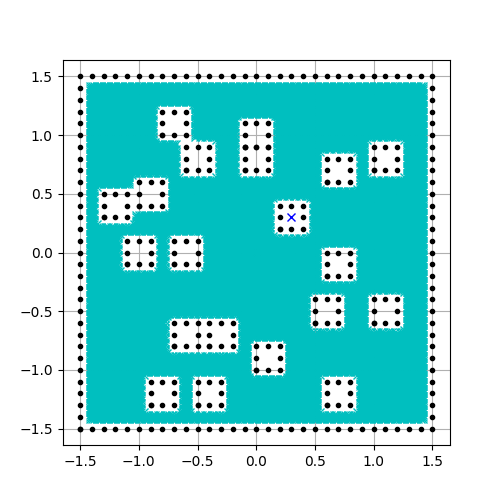
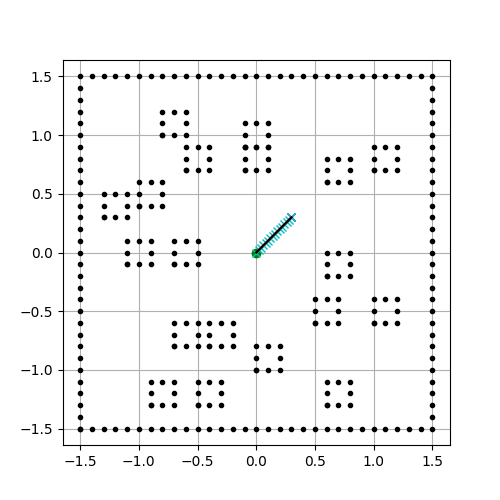
Added the autonomous driving part

diff --git a/Week08-09/auto_fruit_search_new_strat.py b/Week08-09/auto_fruit_search_new_strat.py
@@ -142,7 +142,8 @@ class Operate:
         self.initial_robot_pose_theta = 0
         self.closestAruco = []
         self.closestArucoIndex = 1
-        self.fruit_to_find = []
+        self.fruit_to_find_xy = []
+        self.simplified_path = []
         
         self.folder = 'pibot_dataset/'
         if not os.path.exists(self.folder):
@@ -717,31 +718,68 @@ if __name__ == "__main__":
 
     # read in the true map
     fruits_list, fruits_true_pos, aruco_true_pos = read_true_map(args.map)
-
-    print(fruits_true_pos)
     # print(aruco_true_pos)
-
-    operate = Operate(args, aruco_true_pos)
-
-    ppi = PenguinPi(args.ip,args.port)
 
     search_list = read_search_list(args.shopping_list)
     fruit_goal_list = print_target_fruits_pos(search_list, fruits_list, fruits_true_pos)
     
     obstacle_list = np.vstack((fruits_true_pos, aruco_true_pos))
+    operate = Operate(args, aruco_true_pos)
 
     operate.ekf_on = True
     sleep(1)
 
-    operate.fruit_to_find = search_list.pop(0)
-    fruit_index = fruits_list.index(operate.fruit_to_find.lower())
-    obstacle_index = obstacle_list.index(operate.fruit_to_find.lower())
-    print(fruit_index)
-    obstacle_list.pop(operate.fruit_to_find)        # Removes the finding fruit from obstacle list
+    ## Testing for Level 1
+    # operate.fruit_to_find = search_list.pop(0)
+    # fruit_index = fruits_list.index(operate.fruit_to_find.lower())
+    # obstacle_index = obstacle_list.index(operate.fruit_to_find.lower())
+    # print(fruit_index)
+    # obstacle_list.pop(operate.fruit_to_find)        # Removes the finding fruit from obstacle list
     
-    operate.all_waypoints = astar.a_start(0, 0, fruits_true_pos[fruit_index][0], fruits_true_pos[fruit_index][1], obstacle_list)
-    obstacle_list.insert(fruit_index, operate.fruit_to_find)        # Add the finding fruit back to obstacle list
-    print(operate.all_waypoints)
+    # operate.all_waypoints = astar.a_start(0, 0, fruits_true_pos[fruit_index][0], fruits_true_pos[fruit_index][1], obstacle_list)
+    # obstacle_list.insert(fruit_index, operate.fruit_to_find)        # Add the finding fruit back to obstacle list
+    # print(operate.all_waypoints)
+
+     ### for Autonomous Waypoints (COMMENT THIS OUT : Do not use thiss until its time to test)
+    for K in range(5) : 
+        fruit_to_find = search_list.pop(0)
+        fruit_index = fruits_list.index(fruit_to_find.lower())
+        print(f"Now Heading to Fruit number {fruit_index} : " + fruit_to_find)
+        operate.fruit_to_find_xy = fruits_true_pos[fruit_index]
+        fruits_true_pos = np.delete(fruits_true_pos, fruit_index, axis=0)        # Removes the finding fruit from obstacle list
+        obstacle_list = np.vstack((fruits_true_pos, aruco_true_pos))
+
+        if K== 0 : 
+            robot_x = 0
+            robot_y = 0
+
+    
+        all_waypoints_reverse, simplified_path_reverse = astar.a_start(robot_x, robot_y, operate.fruit_to_find_xy[0], operate.fruit_to_find_xy[1], obstacle_list)
+        
+        # Waypoints are reversed, trying to set it right
+        operate.all_waypoints = []
+        operate.simplified_path = []
+        j = len(all_waypoints_reverse)-1
+        for i in range(len(all_waypoints_reverse)) : 
+            operate.all_waypoints.append(all_waypoints_reverse[j])
+            j-=1
+        j= len(simplified_path_reverse)-1
+        for i in range(len(simplified_path_reverse)) : 
+            operate.simplified_path.append(simplified_path_reverse[j])
+            j-=1
+        # Waypoints and simplified path are not set the right way
+        
+        # Waypoints contain the goal
+        operate.all_waypoints = np.delete(operate.all_waypoints, -1, axis=0)  
+        final_waypoint = operate.all_waypoints[-3]
+        fruits_true_pos = np.insert(fruits_true_pos, fruit_index, operate.fruit_to_find_xy, axis = 0)        # Add the finding fruit back to obstacle list
+        obstacle_list = np.vstack((fruits_true_pos, aruco_true_pos))
+        print(operate.all_waypoints)
+        robot_x = final_waypoint[0]
+        robot_y = final_waypoint[1]
+    ###
+
+    ppi = PenguinPi(args.ip,args.port)
 
     while start:
         operate.update_keyboard()
@@ -759,5 +797,14 @@ if __name__ == "__main__":
         operate.draw(canvas)
         pygame.display.update()
         
-    ### for Autonomous Waypoints
-
+    ### for Autonomous Waypoints (COMMENT THIS OUT : Do not use thiss until its time to test)
+    for K in range(5) : 
+        operate.fruit_to_find = search_list.pop(0)
+        fruit_index = fruits_list.index(operate.fruit_to_find.lower())
+        obstacle_index = obstacle_list.index(operate.fruit_to_find.lower())
+        print(fruit_index)
+        obstacle_list.pop(operate.fruit_to_find)        # Removes the finding fruit from obstacle list
+    
+        operate.all_waypoints = astar.a_start(0, 0, fruits_true_pos[fruit_index][0], fruits_true_pos[fruit_index][1], obstacle_list)
+        obstacle_list.insert(fruit_index, operate.fruit_to_find)        # Add the finding fruit back to obstacle list
+        print(operate.all_waypoints)

diff --git a/Week08-09/astar.py b/Week08-09/astar.py
@@ -369,6 +369,11 @@ def a_start(start_x,start_y,goal_x,goal_y,obstacle_list):
         # plt.show()
         plt.savefig("astar_generated.png") # for cian, cant view plt.show() on my laptop
 
-    print(waypoint_x, waypoint_y)
+    
+    waypoint = []
+    for i in range(len(waypoint_x)) :
+        waypoint.append( [waypoint_x[i], waypoint_y[i]] )
+    
+    print(waypoint)
 
-    return waypoint_x, waypoint_y
+    return waypoint, simplified_path
